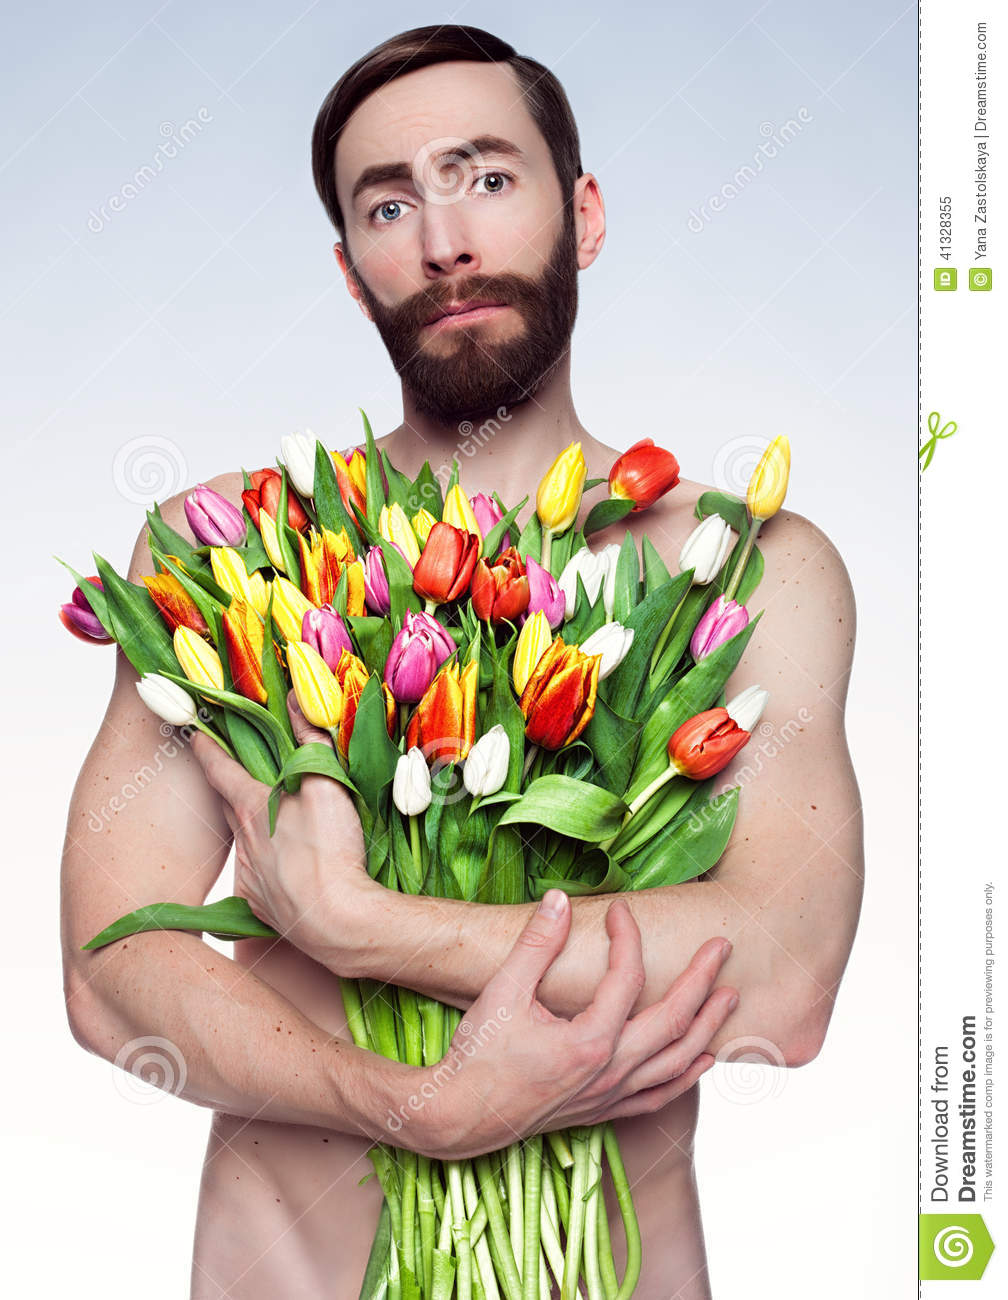
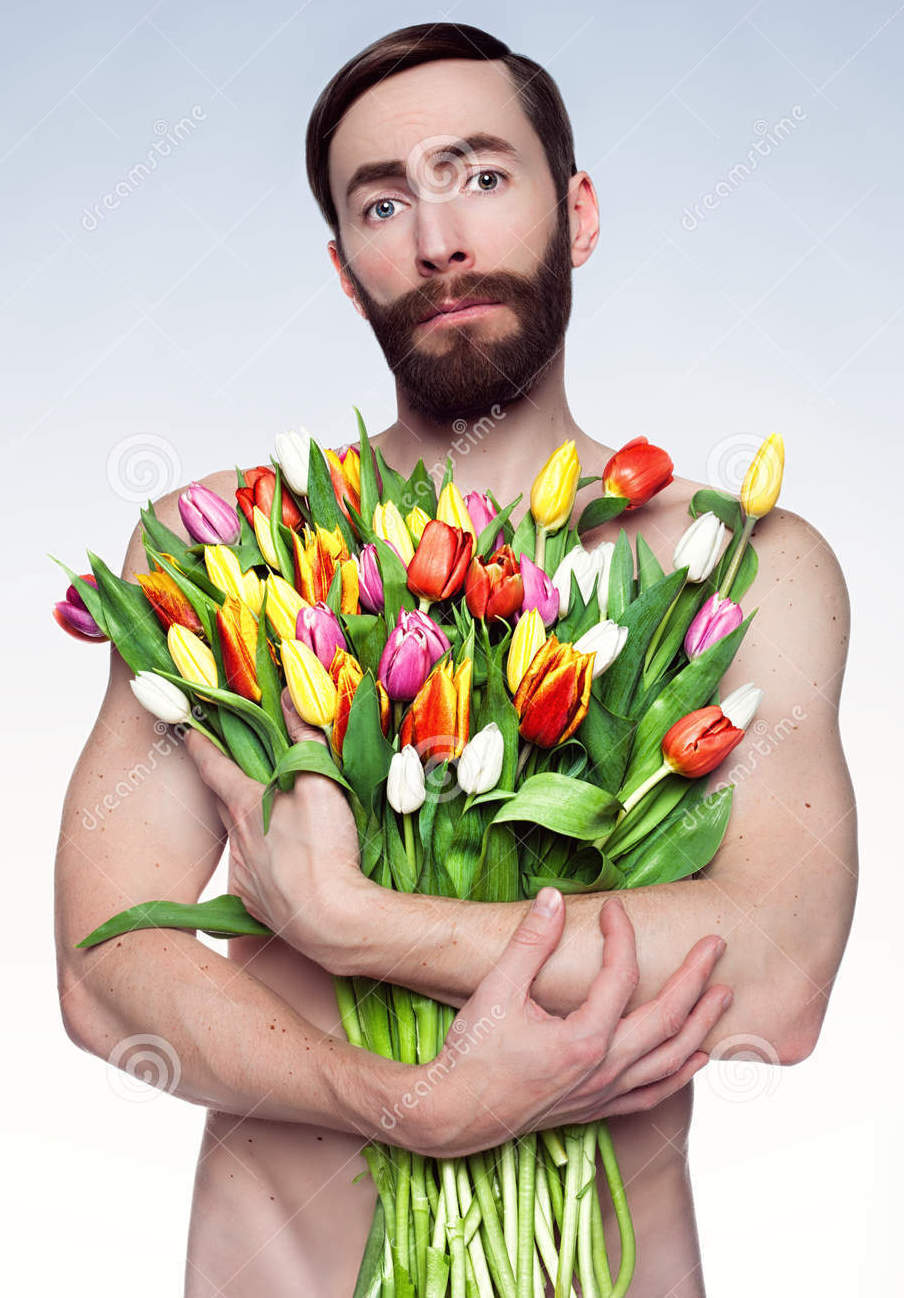
might be the finishing touches idk

diff --git a/index.html b/index.html
@@ -9,7 +9,7 @@
     <div id="wrapper">
         <header><h3>the one true</h3><h1> Flower Shoppe</h1></header>
         <nav>
-            <p><a href="index.html">HOME</a> &nbsp;&nbsp;<a href="pages/other.html">SPECIALS</a></p>
+            <p><a href="index.html"> HOME</a> &nbsp;&nbsp;&nbsp;&nbsp;&nbsp;<a href="pages/other.html">SPECIALS</a></p>
         </nav>
         <article>
             <h2>W E L C O M E</h2>
@@ -19,10 +19,10 @@
     
         <section>
             <h2>THIS WEEK'S FLOWERS</h2>
-            <p>AS sdfkjhxcv JHBzsdf KJHBSd jkh sdf xcvoi ocv jksdh sdvn siduvhsd voief sd vosidvh skdjh sodvhsdovis vasd.</p>
-            
+            <p>Fresh baby's breath in this week! Fantastic, fantastic flowers, I cannot stress this enough. Fresh and colourful!!</p>
+            <p>There's also a surplus of dandelions! Don't miss out! Be sure to check out the specials page for great deals!</p>
             <h2>IN SEASON</h2>
-            <p>ASLikj sdf JZNK cioh ZXh  zcvuh zkjasf xvc sdf xcv dg cn guj n df sdfsdcsd fgn dfb sdf sdvsd v gn ghn dfb sdv sdv sdv fgn hn sd bosodf xcvbasoi xdv sd xcv sdv xcv  asDVKUHXCV a</p>
+            <p>It's winter everyone is dead.</p>
             
             <h2>OTTO'S PICKS</h2>
             <p>Choice cuts of the finest flowers selected by the man himself. Call to set up an appointment for consultation to find the perfect flower for any occasion! Otto is a master florist and he really knows his shit! He will help you!! Call Otto!!! </p>

diff --git a/pages/other.html b/pages/other.html
@@ -12,20 +12,13 @@
             <p><a href="../index.html">HOME</a> &nbsp;&nbsp;<a href="#">SPECIALS</a></p>
         </nav>
         <article>
-            <h2>W E L C O M E</h2>
-            <p>We stock all kinds of flowers from Amaranth to Zephyranthes!</p>
-            <p>Thank you for your patronage!</p>
+            <h2>ENYOY</h2>
+            <p>Only the best for our valued customers!</p>
         </article>
     
         <section>
-            <h2>THIS WEEK'S FLOWERS</h2>
-            <p>AS sdfkjhxcv JHBzsdf KJHBSd jkh sdf xcvoi ocv jksdh sdvn siduvhsd voief sd vosidvh skdjh sodvhsdovis vasd.</p>
-            
-            <h2>IN SEASON</h2>
-            <p>ASLikj sdf JZNK cioh ZXh  zcvuh zkjasf xvc sdf xcv dg cn guj n df sdfsdcsd fgn dfb sdf sdvsd v gn ghn dfb sdv sdv sdv fgn hn sd bosodf xcvbasoi xdv sd xcv sdv xcv  asDVKUHXCV a</p>
-            
-            <h2>OTTO'S PICKS</h2>
-            <p>Choice cuts of the finest flowers selected by the man himself. Call to set up an appointment for consultation to find the perfect flower for any occasion! Otto is a master florist and he really knows his shit! He will help you!! Call Otto!!! </p>
+            <h2>THIS IS O T T O</h2>
+            <img src="../img/sadman.jpg" width="100%"/>      
         </section>
     
         <footer><strong>&copy; 1969</strong></footer>

diff --git a/css/style.css b/css/style.css
@@ -20,6 +20,15 @@ h3 {
     font-family: 'Pacifico', cursive;
 }
 
+a {
+    text-decoration: none;
+    color: white;
+}
+
+a:visited {
+    color: aquamarine;
+}
+
 #wrapper {
     max-width: 640px;
     margin: 0 auto;
